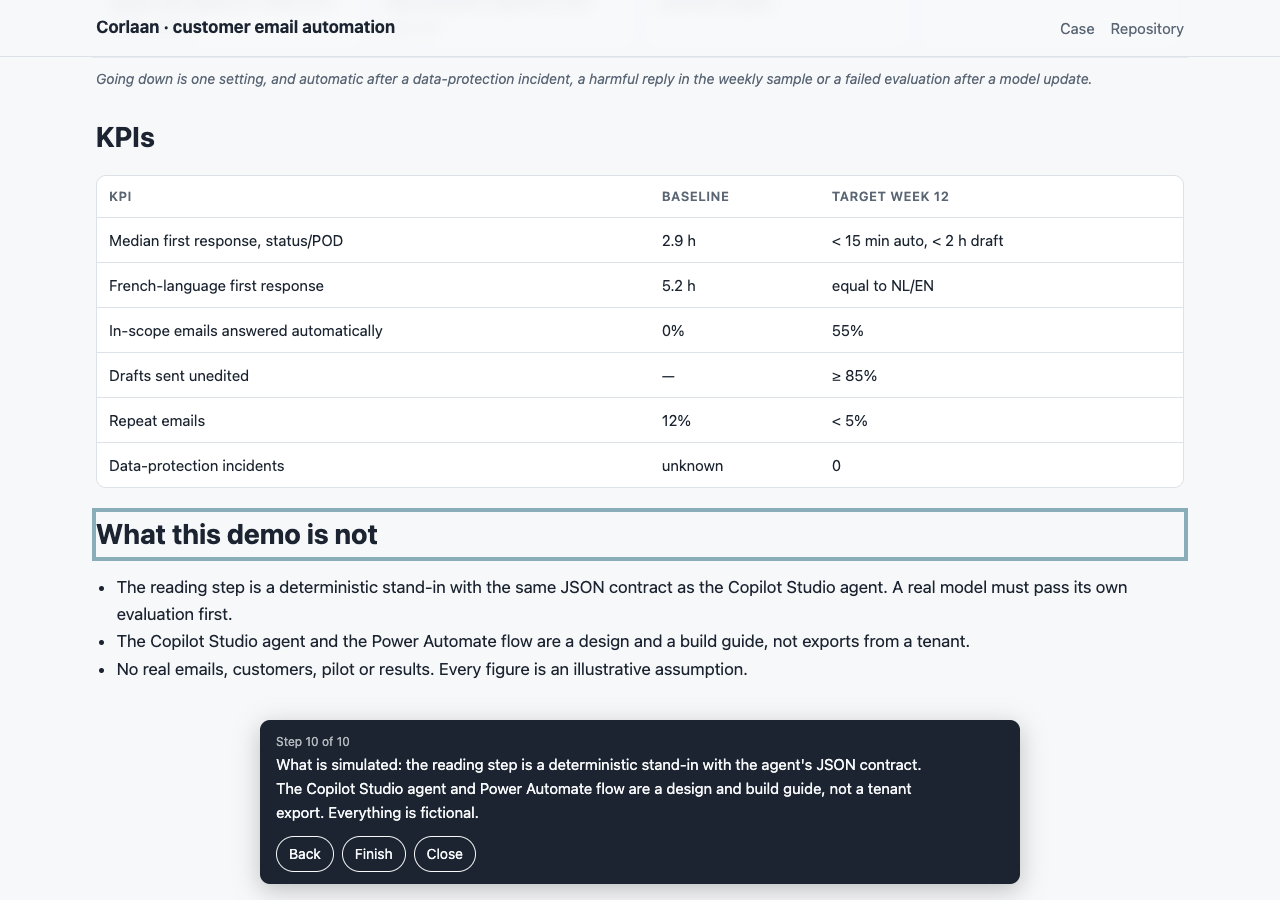
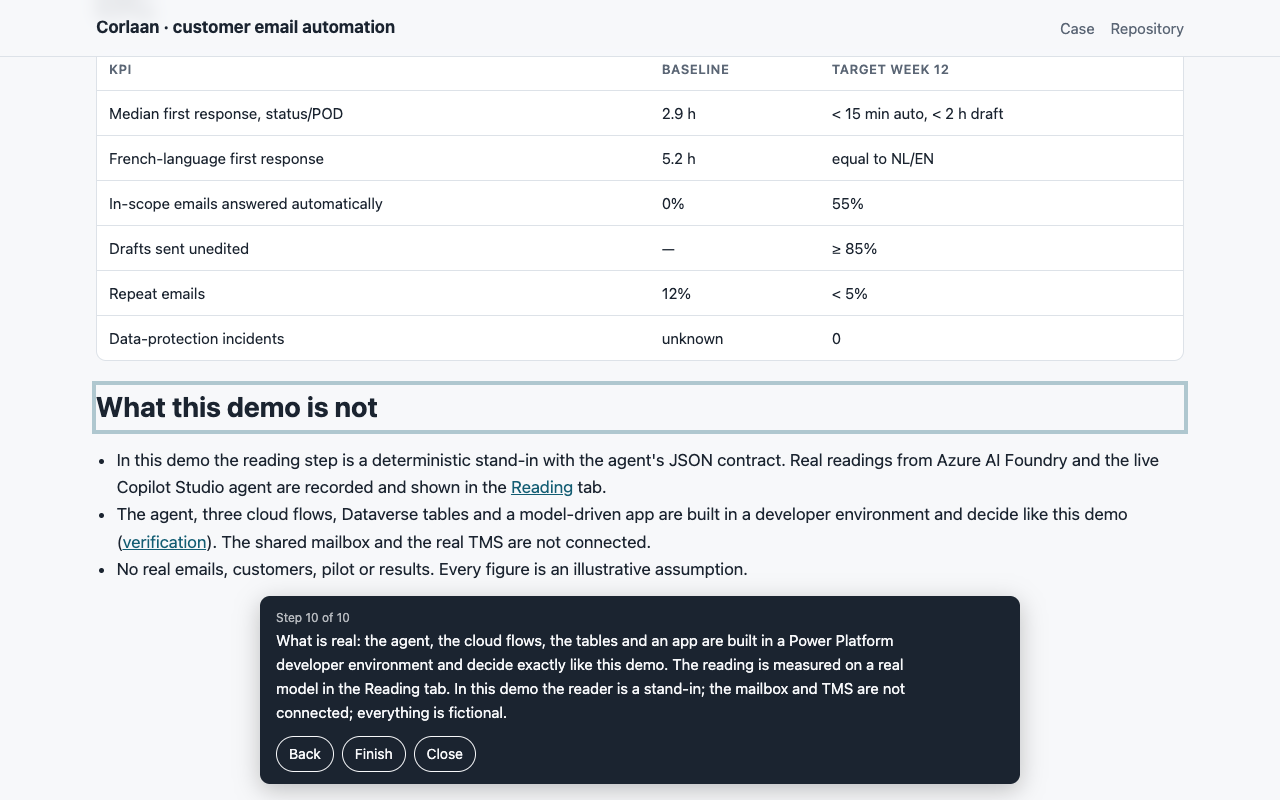
Screenshots: tour step 10 and the Reading tab

diff --git a/docs/screenshots/README.md b/docs/screenshots/README.md
@@ -14,5 +14,8 @@ Fallback if the live demo does not load. Captured from the local site with Chrom
 | 7 · Test set: 48/48 vs 23 harmful | ![Tour 7](tour-07.png) |
 | 8 · Business case: the hire decides | ![Tour 8](tour-08.png) |
 | 9 · Rollout ladder | ![Tour 9](tour-09.png) |
-| 10 · What is simulated | ![Tour 10](tour-10.png) |
+| 10 · What is real, what is a stand-in | ![Tour 10](tour-10.png) |
+| Reading tab: the stand-in, a real model and the live agent compared | ![Reading tab](reading-tab.png) |
+
+Screens of the built solution in Power Platform: [power-platform/](power-platform/README.md).
 | Mobile (375 px) | ![Mobile](mobile-demo.png) |
